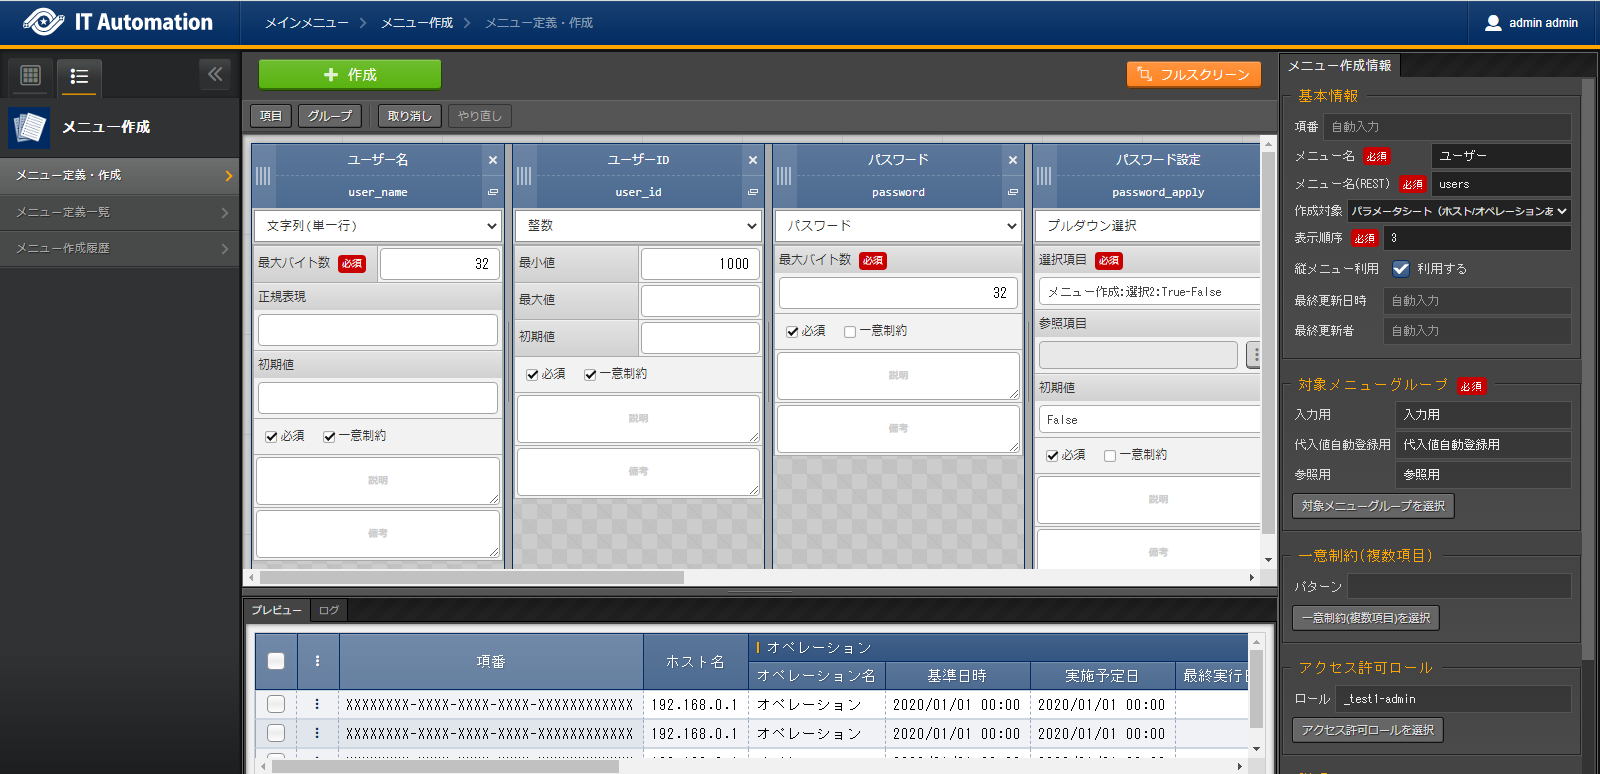
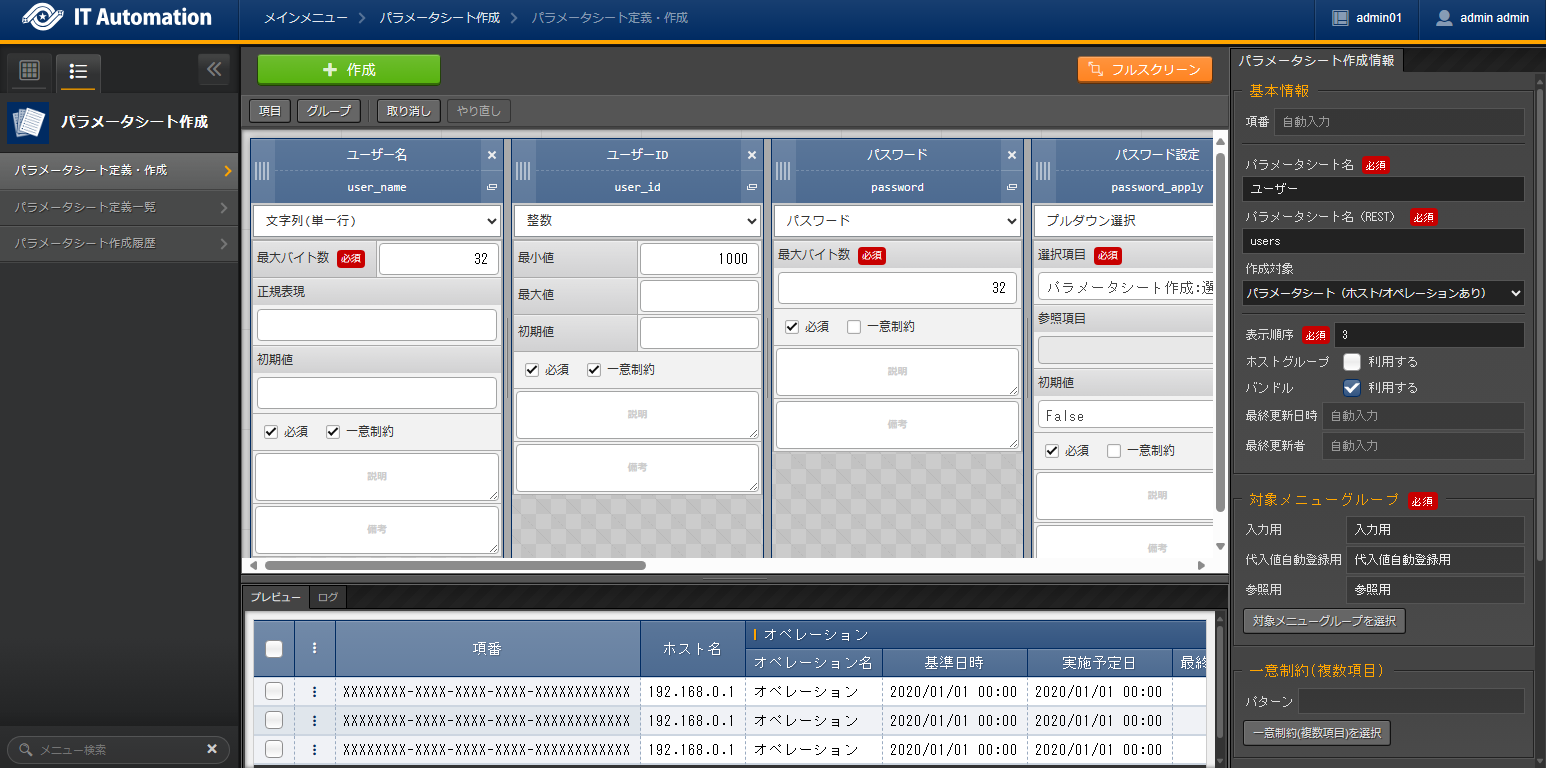
Legacy-Roleシナリオ、画像差し替え、画像名変更

Changed region(s): [[0.0, 0.0, 1.0, 1.0], [0.0, 0.9688, 0.0931, 1.0]]

diff --git a/src/ja/2.4/learn/quickstart/answer1.rst b/src/ja/2.4/learn/quickstart/answer1.rst
@@ -111,7 +111,7 @@
    :width: 1200px
    :alt: グループのパラメータシート
 
-.. figure:: ../../../../images/learn/quickstart/answer1/グループのパラメータシート作成.gif
+.. figure:: ../../../../images/learn/quickstart/answer1/グループパラメータシート作成.gif
    :width: 1200px
    :alt: グループのパラメータシート作成
 
@@ -253,7 +253,7 @@
    :width: 1200px
    :alt: ユーザーのパラメータシート
 
-.. figure:: ../../../../images/learn/quickstart/answer1/ユーザーのパラメータシート作成_1.gif
+.. figure:: ../../../../images/learn/quickstart/answer1/ユーザーパラメータシート作成_1.gif
    :width: 1200px
    :alt: ユーザーのパラメータシートの作成1
 
@@ -353,7 +353,7 @@
      - 
      - 
 
-.. figure:: ../../../../images/learn/quickstart/answer1/ユーザーのパラメータシート作成_2.gif
+.. figure:: ../../../../images/learn/quickstart/answer1/ユーザーパラメータシート作成_2.gif
    :width: 1200px
    :alt: ユーザーのパラメータシート作成_2
 

diff --git a/src/ja/2.4/learn/quickstart/scenario2.rst b/src/ja/2.4/learn/quickstart/scenario2.rst
@@ -214,7 +214,7 @@
 
 | パラメータシート作成情報で :menuselection:`バンドル利用` を「利用する」にチェックを入れることで、1つの設定項目に対して複数のパラメータを設定することが可能になります。
 
-.. figure:: ../../../../images/learn/quickstart/scenario2/パラメータシート作成情報設定.png
+.. figure:: ../../../../images/learn/quickstart/scenario2/パラメータシートの作成情報設定.png
    :width: 1200px
    :alt: パラメータシート作成情報設定
 

diff --git a/src/ja/2.4/learn/quickstart/legacy/Legacy_answer1.rst b/src/ja/2.4/learn/quickstart/legacy/Legacy_answer1.rst
@@ -76,8 +76,6 @@
 | 本演習ではユーザーの管理方法について扱いますが、ユーザーは何らかのグループに必ず所属する必要があります。
 | まずは、ユーザーをパラメータシート上で管理できるようにしておきます。
 
-.. _groups_parameter_sheet:
-
 グループのパラメータシート作成
 ------------------------------
 
